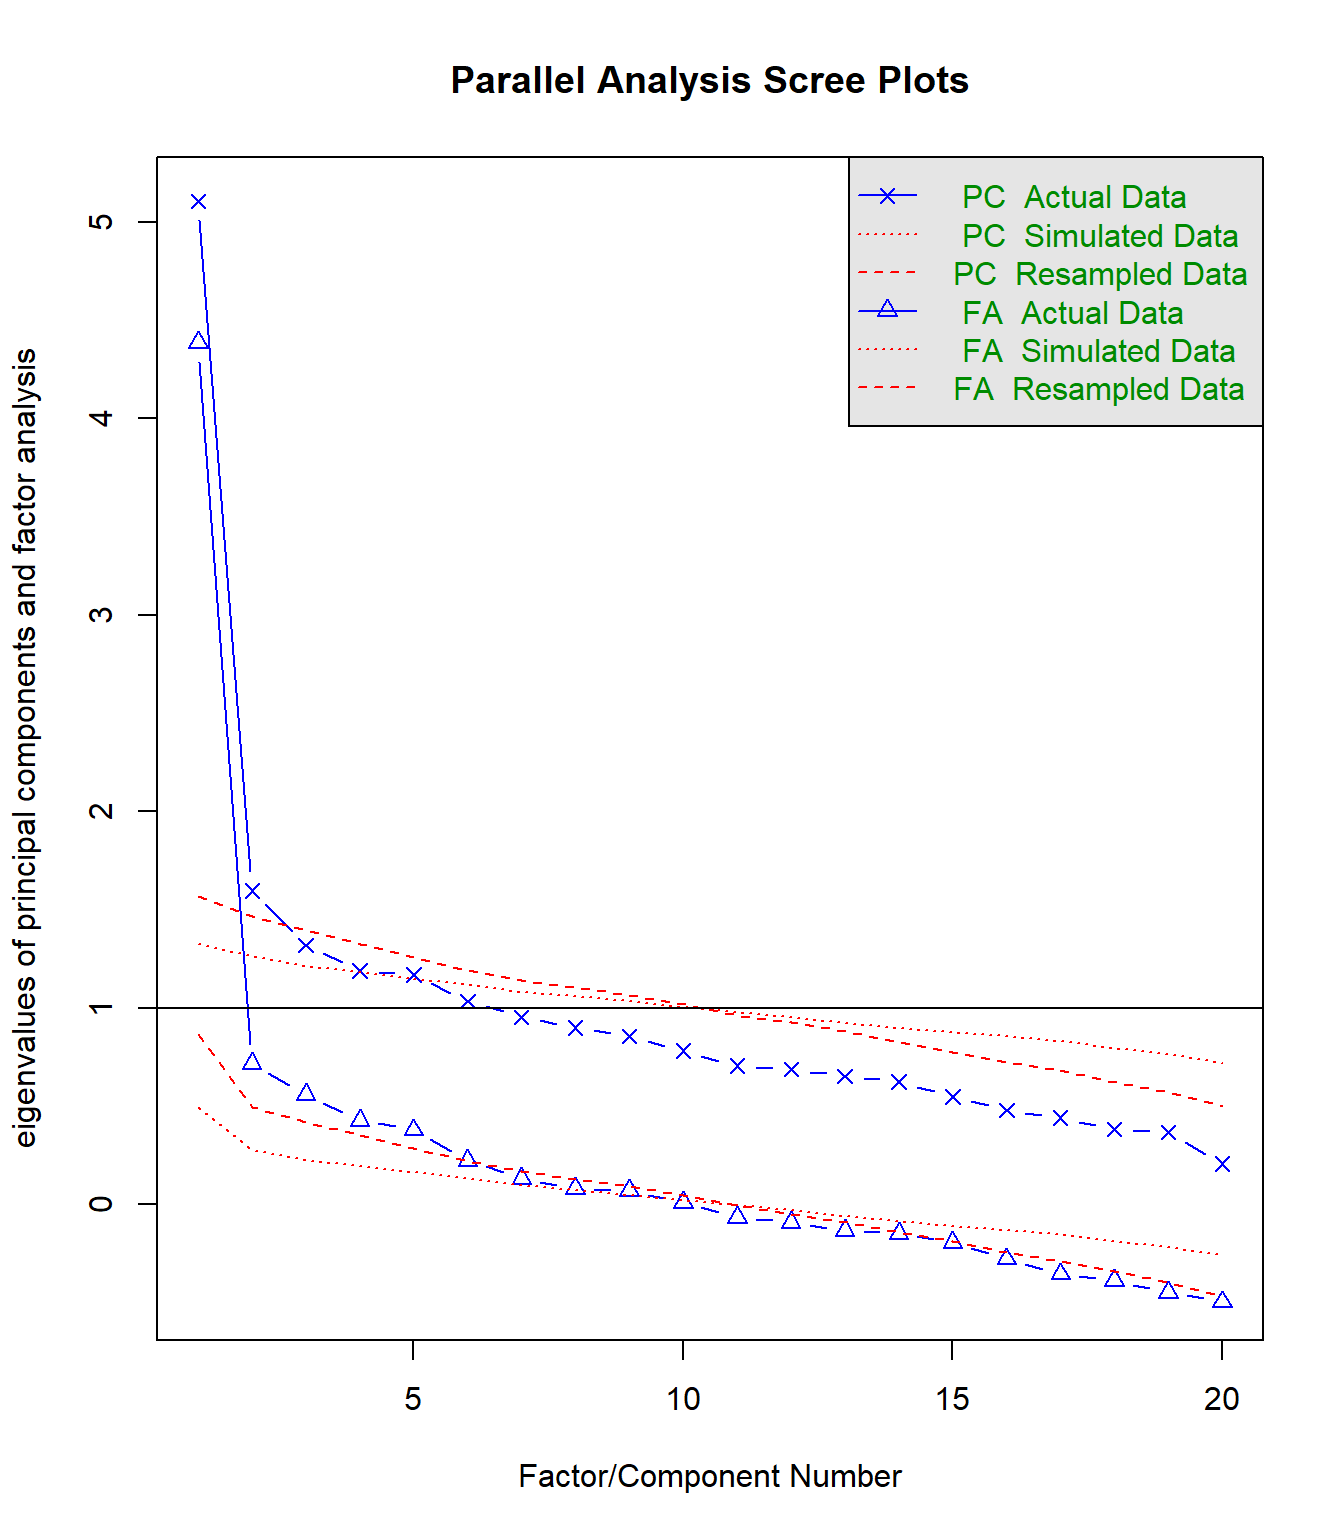
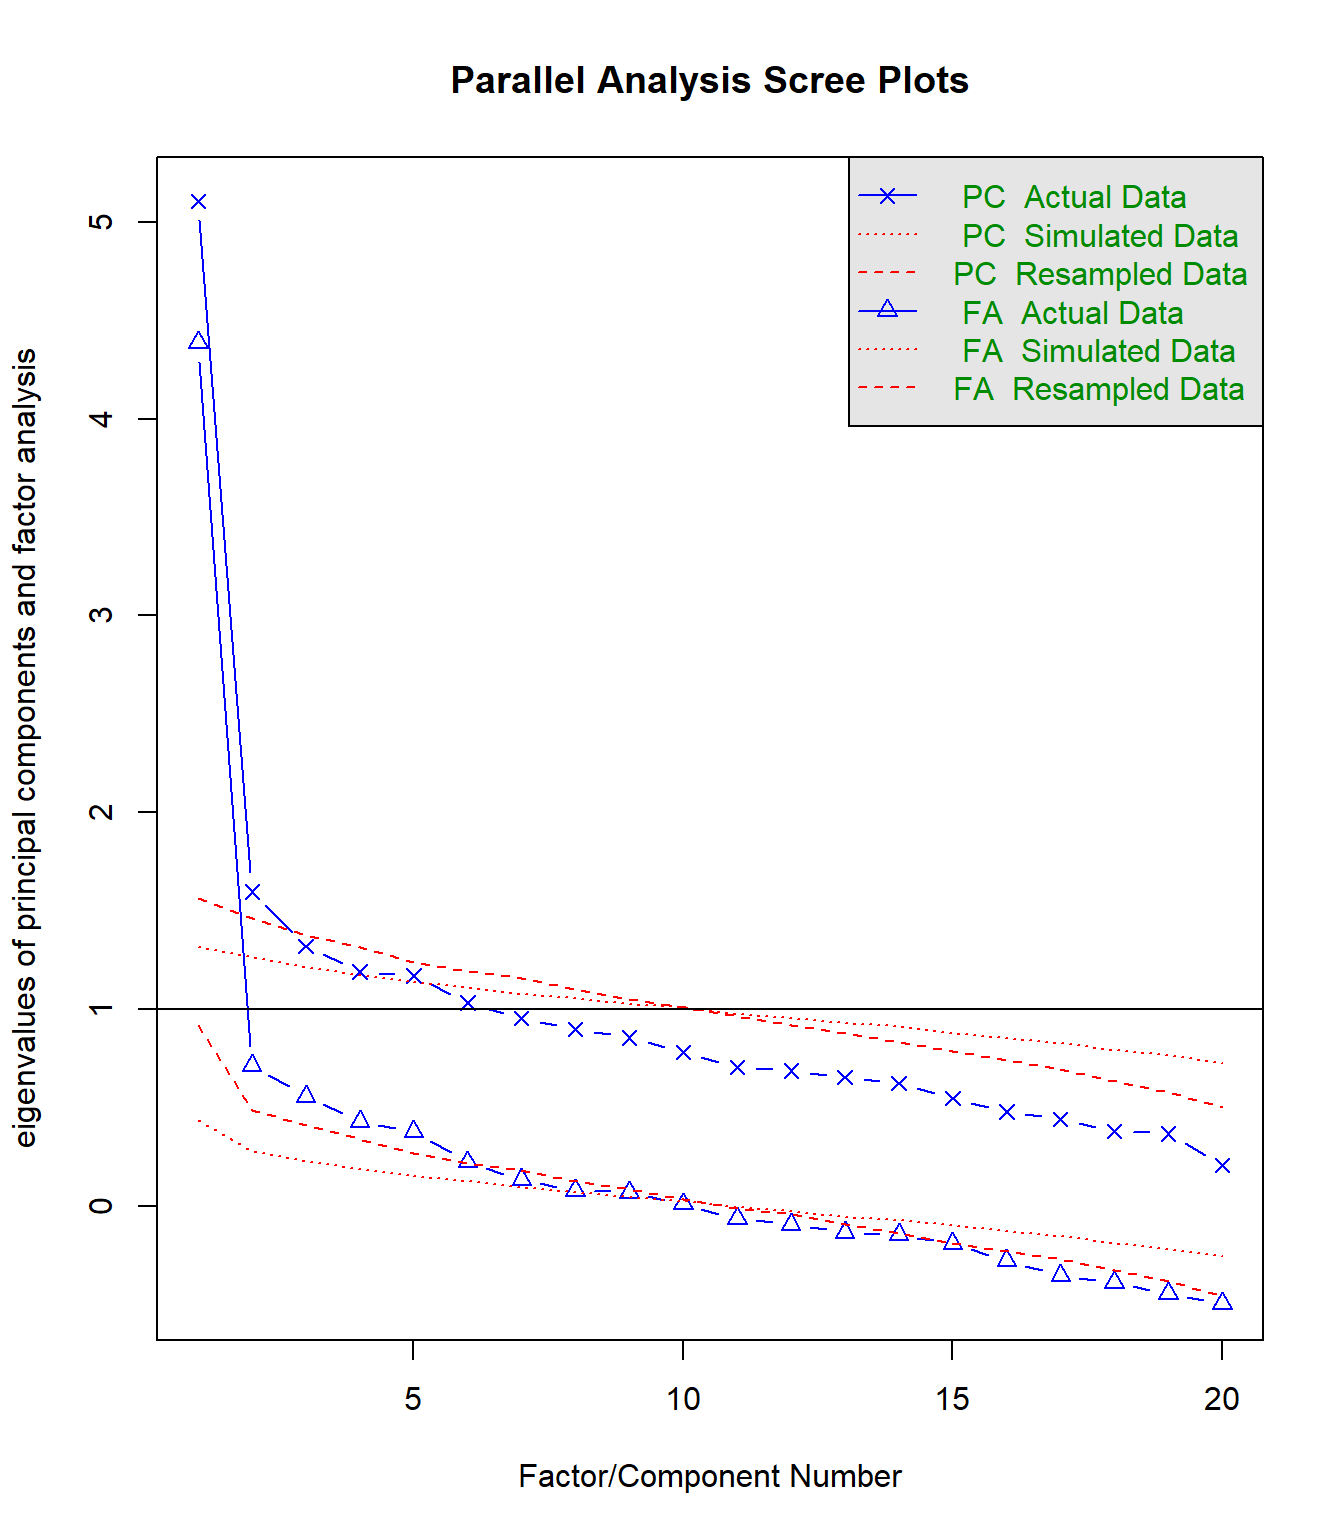
minor revisions to the reproducibility section

diff --git a/docs/Psychometrics_Portfolio.html b/docs/Psychometrics_Portfolio.html
@@ -184,16 +184,17 @@ ul.task-list li input[type="checkbox"] {
 <section id="introduction" class="level2">
 <h2 class="anchored" data-anchor-id="introduction">Introduction</h2>
 <p>This portfolio is my attempt to catalog and showcase the various kinds of analyses that a psychometrician might perform with different kinds of data in different fields. The portfolio is structured as a series of projects; each involves taking a particular real-world dataset and running a comprehensive set of analyses which are appropriate for the properties of the data and the goals of stakeholders. All analyses are performed using the R programming language and the RStudio integrated development environment (IDE).</p>
-<p>This portfolio is also intended to be an open educational resource (OER) and can be used by anyone who wants to learn how to conduct psychometric analyses in R. This portfolio is far from ideal for self-study; it is neither highly self-contained nor highly expository, as would be expected in a textbook. Nevertheless, I hope that whoever reads this portfolio can find some value in the project/case study structure.</p>
+<p>This portfolio is also intended to be an open educational resource (OER) and can be used by anyone who wants to learn how to conduct psychometric analyses in R. This portfolio is far from ideal for self-study; it is neither highly self-contained nor highly expository, as would be expected in a textbook. Rather, I sprinkle in various theoretical comments and proofs where I feel that they are illustrative. Nevertheless, I hope that whoever reads this portfolio can find some value in the project/case study structure.</p>
 <p>The inspiration for this portfolio stems from my observation that, while there are a large number of excellent resources on the theory of psychometrics and applications in R, there are few resources that capture what the actual work of a psychometrician might look like in the form of projects. In my own learning, I have found that it is easy to get lost in theory without a clear sense of direction or indication as to whether one is actually learning. Furthermore, it can be very daunting to learn sophisticated methods and to keep track of what one has seen and understood. Creating this portfolio has been helpful for me in these respects. Another inspiration for this portfolio is the book “Psychometrics in Exercises using R and RStudio” by Anna Brown, which I found to be especially helpful in my learning, and which shares many of the same design principles as this portfolio.</p>
 <hr>
 </section>
 <section id="reproducibility" class="level2">
 <h2 class="anchored" data-anchor-id="reproducibility">Reproducibility</h2>
-<p>This portfolio was designed with reproducibility in mind. Reproducibility asks the following question: given the <em>same data</em> and the same methods, can an independent researcher obtain the <em>same results</em>, at a potentially later time? Reproducibility is often confused with replicability, which asks a different question: given a <em>new dataset</em> and the same methods, can an independent researcher obtain <em>similar results</em>? Replicability is often more scientifically interesting, but it is of theoretical rather than pragmatic concern; a replication failure may undermine a potential scientific theory. Reproducibility, on the other hand, is an essential practice for reporting and making decisions based on the results of analyses; a reproducibility failure undermines the transparency and trustworthiness of the results.</p>
-<p><em>For those who simply wish to follow along with the analyses in this portfolio</em>, the reproducibility elements included in each project are likely unnecessary. Simply load the required packages and run the code. In most cases, the exact same results should appear.</p>
+<p>This portfolio was designed with reproducibility in mind. Reproducibility asks the following question: given the <em>same dataset</em> analyzed using the same methods, can an independent researcher obtain the <em>same results</em> at a later time? Reproducibility is often confused with replicability, which asks a different question: given a <em>new dataset</em> collected and analyzed using the same methods, can an independent researcher obtain <em>similar results</em>? Replicability is often more scientifically interesting, but it is of theoretical rather than pragmatic concern; a replication failure may undermine a potential scientific theory. Reproducibility, on the other hand, is an essential practice for reporting and making decisions based on the results of analyses; a reproducibility failure undermines the transparency and trustworthiness of the results.</p>
+<p><em>For those who simply wish to follow along with the analyses in this portfolio</em>, the reproducibility elements included are likely unnecessary. Simply load the required packages and run the code. In most cases, the exact same results should appear.</p>
 <p><em>For those who wish to reproduce the analyses almost exactly</em>, this portfolio utilizes the <code>{renv}</code> package (Ushey &amp; Wickham, 2026), which creates reproducible environments for R projects. <code>{renv}</code> works by creating a project library that contains only the packages used in this portfolio. Additionally, <code>{renv}</code> creates a lockfile that contains the specific versions of every package used, as well as the repositories where the package versions are stored. The Comprehensive R Archive Network (CRAN) is the most popular repository; however, CRAN only stores the latest versions of packages. Instead, the <code>{renv}</code> packages uses the Posit Public Package Manager (P3M), as it stores older package versions. P3M has an additional benefit for reproducibility, which is that it stores <em>daily snapshots</em> of CRAN; this means that an independent researcher can load the exact same package versions that were used by the author of the analyses on the day that the analyses were originally performed.</p>
-<p>To reproduce the analyses, I recommend the following steps:</p>
+<p>To reproduce the analyses, I first recommend using a tool such as <code>rig</code> (an R installation manager which allows for switching between multiple versions of R) to load the exact R version recorded in the <code>renv.lock</code> file. This is because <code>{renv}</code> may run into issues if a different version of R is used. To avoid headaches, it is easier to load the exact R version recorded using <code>rig</code>.</p>
+<p>Next, the following steps can be used to reproduce the portfolio:</p>
 <ol type="1">
 <li>Make sure that RStudio and <code>rig</code> are installed.</li>
 <li>Clone the github repository for the portfolio website by running <code>git clone https://github.com/wyck-psych/wyck-psych.github.io.git</code> in the terminal.</li>
@@ -202,7 +203,6 @@ ul.task-list li input[type="checkbox"] {
 <li>Once the project is opened in RStudio, run <code>renv::restore()</code> in the R console. This will install the exact date-snapshotted package versions into the project library.</li>
 <li>Once the packages are restored, the entire portfolio can be reproduced by running <code>quarto render</code> in RStudio’s built-in terminal (Tools → Terminal).</li>
 </ol>
-<p>I recommend using a tool such as <code>rig</code> (an R installation manager which allows for switching between multiple versions of R) to load the exact R version recorded in the <code>renv.lock</code> file because <code>{renv}</code> may run into issues if a different version of R is used. To avoid headaches, it is easier to load the exact R version recorded using <code>rig</code>.</p>
 <hr>
 
 

diff --git a/docs/project_1.html b/docs/project_1.html
@@ -864,7 +864,7 @@ D       *   D 480 0.72  0.34    0.46  0.48  0.74  0.84  0.94</code></pre>
 <p>For item 9, distractor C has a moderately-sized negative point-biserial correlation (<span class="math inline">r_{IR}=-.23</span>) but is essentially only selected by the lowest total score group, with selection proportions (.06, .00, .00, .00). This suggests that distractor C is primarily selected due to chance guessing at very low ability levels and may require revision.</p>
 <p>For item 12, distractor B has a weak negative point-biserial correlation (<span class="math inline">r_{IR}=-.14</span>) and is essentially only selected by the lowest total score group, with selection proportions (.03, .01, .01, .01), and distractor C has a moderately-sized negative point-biserial correlation (<span class="math inline">r_{IR}=-.21</span>) and is selected at a substantial frequency in the lower total score groups, with selection proportions (.07, .06, .03, .00). This suggests that distractor B may require revision, but distractor C is likely unproblematic.</p>
 <p>For item 20, distractor A has a weak negative point-biserial correlation (<span class="math inline">r_{IR}=-.19</span>) and is essentially only selected by the lowest total score group, with selection proportions (.05, .01, .00, .00). This suggests that distractor A is primarily selected due to chance guessing at very low ability levels and may require revision. Additionally, this item is structurally similar to item 4, with the distractor functioning and item stem indicating that the item is essentially dichotomous.</p>
-<p><em><strong>Key Takeaways</strong>, the classical distractor analysis suggests that the distractors are functioning well in general. Item 9 (distractor C) and item 12 (distractor B) are infrequently selected and are essentially only selected by the group with the lowest 25% of total scores, which suggests that these distractors may benefit from revision. Additionally, the distractor functioning for item 4 and item 20 suggests that these items are essentially dichotomous, which is consistent with the context found in the item stems. These distractors may benefit from revision, or they may be retained as is, since these items still provide useful information about test-takers.</em></p>
+<p><em><strong>Key Takeaways</strong>: The classical distractor analysis suggests that the distractors are functioning well in general. Item 9 (distractor C) and item 12 (distractor B) are infrequently selected and are essentially only selected by the group with the lowest 25% of total scores, which suggests that these distractors may benefit from revision. Additionally, the distractor functioning for item 4 and item 20 suggests that these items are essentially dichotomous, which is consistent with the context found in the item stems. These distractors may benefit from revision, or they may be retained as is, since these items still provide useful information about test-takers.</em></p>
 <hr>
 </section>
 <section id="optimal-scaling" class="level2">
@@ -1124,7 +1124,7 @@ f7  220.098  71       0.056 0.029 0.874 -241.813</code></pre>
 <div class="cell-output cell-output-stdout">
 <pre><code>
 Loadings:
-     ML4    ML6    ML5    ML1    ML2    ML3   
+     ML5    ML1    ML4    ML2    ML6    ML3   
 QR1   0.334         0.212                     
 QR2                                      0.948
 QR3   0.293                              0.356
@@ -1146,7 +1146,7 @@ QR18         0.963
 QR19  0.291  0.556                            
 QR20                0.250  0.444              
 
-                 ML4   ML6   ML5   ML1   ML2   ML3
+                 ML5   ML1   ML4   ML2   ML6   ML3
 SS loadings    1.620 1.505 1.214 1.300 1.191 1.182
 Proportion Var 0.081 0.075 0.061 0.065 0.060 0.059
 Cumulative Var 0.081 0.156 0.217 0.282 0.341 0.401</code></pre>
